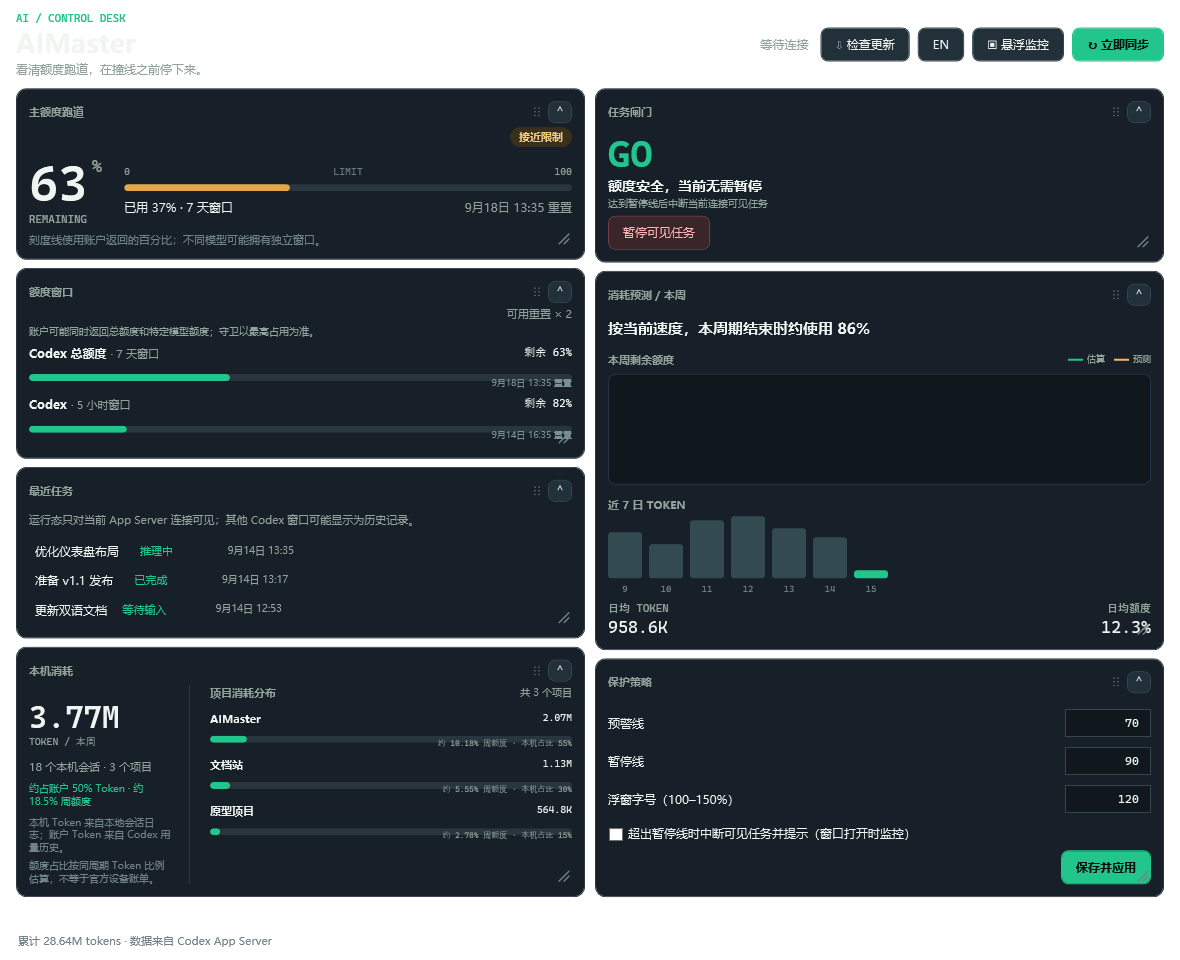
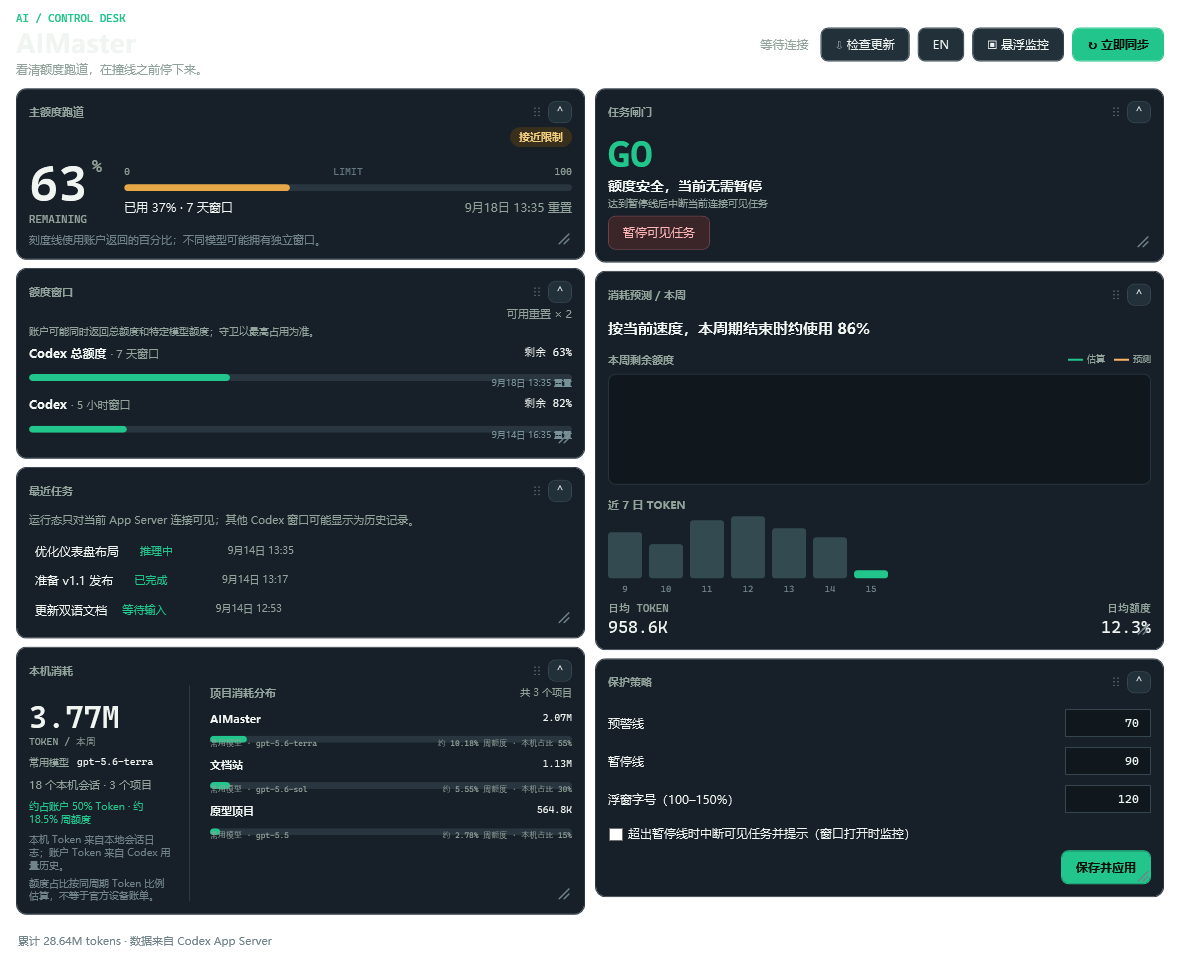
共享统计

Changed region(s): [[0.0, 0.7812, 0.5186, 0.9688], [0.1831, 0.8125, 0.2136, 0.875], [0.1831, 0.75, 0.2136, 0.7812]]

diff --git a/AiManagerWindow.xaml b/AiManagerWindow.xaml
@@ -310,8 +310,14 @@
                             <TextBlock x:Name="LocalUsageTokensText" Text="--" Foreground="{StaticResource Ink}"
                                        FontFamily="Cascadia Mono" FontSize="31" FontWeight="SemiBold" Margin="0,14,0,0"/>
                             <TextBlock Text="TOKEN / 本周" Foreground="{StaticResource Muted}" FontFamily="Cascadia Mono" FontSize="10"/>
+                            <StackPanel Orientation="Horizontal" Margin="0,9,18,0">
+                                <TextBlock Text="常用模型" Foreground="{StaticResource Muted}" FontSize="10"/>
+                                <TextBlock x:Name="LocalUsageModelText" Text="--" Foreground="{StaticResource Ink}"
+                                           FontFamily="Cascadia Mono" FontSize="10" Margin="8,0,0,0"
+                                           TextTrimming="CharacterEllipsis"/>
+                            </StackPanel>
                             <TextBlock x:Name="LocalUsageDetailText" Text="等待本地记录" Foreground="{StaticResource Muted}"
-                                       FontSize="11" TextWrapping="Wrap" Margin="0,13,18,0"/>
+                                       FontSize="11" TextWrapping="Wrap" Margin="0,9,18,0"/>
                             <TextBlock x:Name="LocalUsageEstimateText" Text="等待账户与本机记录" Foreground="{StaticResource Signal}"
                                        FontSize="10" TextWrapping="Wrap" Margin="0,8,18,0"/>
                             <TextBlock Text="本机 Token 来自本地会话日志；账户 Token 来自 Codex 用量历史。" Foreground="#71838A"
@@ -340,10 +346,14 @@
                                                 <TextBlock Grid.Column="1" Text="{Binding TokensText}" Foreground="{StaticResource Ink}"
                                                            FontFamily="Cascadia Mono" FontSize="10" Margin="12,0,0,0"/>
                                                 <Grid Grid.Row="1" Grid.ColumnSpan="2" Margin="0,5,0,0">
+                                                    <Grid.ColumnDefinitions><ColumnDefinition Width="*"/><ColumnDefinition Width="Auto"/></Grid.ColumnDefinitions>
                                                     <ProgressBar Style="{StaticResource Meter}" Maximum="100"
-                                                                 Value="{Binding WeeklyQuotaBarValue, Mode=OneWay}"/>
-                                                    <TextBlock Text="{Binding QuotaShareText}" Foreground="{StaticResource Muted}" FontFamily="Cascadia Mono"
-                                                               FontSize="8" HorizontalAlignment="Right" Margin="0,8,0,0"/>
+                                                                 Value="{Binding WeeklyQuotaBarValue, Mode=OneWay}" Grid.ColumnSpan="2"/>
+                                                    <TextBlock Text="{Binding MostUsedModelText}" Foreground="{StaticResource Muted}"
+                                                               FontFamily="Cascadia Mono" FontSize="8" Margin="0,8,12,0"
+                                                               TextTrimming="CharacterEllipsis"/>
+                                                    <TextBlock Grid.Column="1" Text="{Binding QuotaShareText}" Foreground="{StaticResource Muted}"
+                                                               FontFamily="Cascadia Mono" FontSize="8" HorizontalAlignment="Right" Margin="0,8,0,0"/>
                                                 </Grid>
                                             </Grid>
                                         </DataTemplate>

diff --git a/Services/AiManagerService.cs b/Services/AiManagerService.cs
@@ -40,10 +40,16 @@ internal sealed class AiManagerService : IAsyncDisposable
         public readonly List<LocalUsageRecord> Records = new();
         public long Offset;
         public string? ProjectPath;
+        public string? ModelName;
         public bool HasTokenUsageRecords;
     }
 
-    private sealed record LocalUsageRecord(DateOnly Date, string ProjectPath, long Tokens, bool IsLegacy = false);
+    private sealed record LocalUsageRecord(
+        DateOnly Date,
+        string ProjectPath,
+        string? ModelName,
+        long Tokens,
+        bool IsLegacy = false);
 
     public AiManagerService()
     {
@@ -453,7 +459,8 @@ internal sealed class AiManagerService : IAsyncDisposable
                 ProjectPath = group.Key,
                 Tokens = group.Sum(item => item.Record.Tokens),
                 SharePercent = total > 0 ? group.Sum(item => item.Record.Tokens) * 100d / total : 0,
-                SessionCount = group.Select(item => item.SessionPath).Distinct(StringComparer.OrdinalIgnoreCase).Count()
+                SessionCount = group.Select(item => item.SessionPath).Distinct(StringComparer.OrdinalIgnoreCase).Count(),
+                MostUsedModel = SelectMostUsedModel(group.Select(item => item.Record))
             })
             .OrderByDescending(item => item.Tokens)
             .ThenBy(item => item.ProjectName, StringComparer.CurrentCultureIgnoreCase)
@@ -465,6 +472,7 @@ internal sealed class AiManagerService : IAsyncDisposable
             TotalTokens = total,
             SessionCount = sessionRecords.Select(item => item.SessionPath)
                 .Distinct(StringComparer.OrdinalIgnoreCase).Count(),
+            MostUsedModel = SelectMostUsedModel(sessionRecords.Select(item => item.Record)),
             Projects = projects
         };
     }
@@ -480,6 +488,7 @@ internal sealed class AiManagerService : IAsyncDisposable
             {
                 cursor.Offset = 0;
                 cursor.ProjectPath = null;
+                cursor.ModelName = null;
                 cursor.HasTokenUsageRecords = false;
                 cursor.Records.Clear();
                 cursor.PendingLine.SetLength(0);
@@ -519,6 +528,7 @@ internal sealed class AiManagerService : IAsyncDisposable
             if (type is "session_meta" or "turn_context")
             {
                 cursor.ProjectPath = NormalizeProjectPath(ReadString(payload, "cwd")) ?? cursor.ProjectPath;
+                cursor.ModelName = NormalizeModelName(ReadString(payload, "model")) ?? cursor.ModelName;
                 return;
             }
             var isLegacy = false;
@@ -550,7 +560,8 @@ internal sealed class AiManagerService : IAsyncDisposable
                 ? DateOnly.FromDateTime(timestamp.LocalDateTime)
                 : fallbackDate;
             cursor.Records.Add(new LocalUsageRecord(date,
-                cursor.ProjectPath ?? LocalizationService.L("未归属项目", "Unassigned"), tokens, isLegacy));
+                cursor.ProjectPath ?? LocalizationService.L("未归属项目", "Unassigned"),
+                cursor.ModelName, tokens, isLegacy));
         }
         catch (JsonException)
         {
@@ -570,6 +581,18 @@ internal sealed class AiManagerService : IAsyncDisposable
         if (path.StartsWith(@"\\?\", StringComparison.Ordinal)) path = path[4..];
         return Path.TrimEndingDirectorySeparator(path.Trim());
     }
+
+    private static string? NormalizeModelName(string? model) =>
+        string.IsNullOrWhiteSpace(model) ? null : model.Trim();
+
+    private static string? SelectMostUsedModel(IEnumerable<LocalUsageRecord> records) => records
+        .Where(item => !string.IsNullOrWhiteSpace(item.ModelName))
+        .GroupBy(item => item.ModelName!, StringComparer.OrdinalIgnoreCase)
+        .Select(group => new { Name = group.Key, Tokens = group.Sum(item => item.Tokens) })
+        .OrderByDescending(item => item.Tokens)
+        .ThenBy(item => item.Name, StringComparer.OrdinalIgnoreCase)
+        .Select(item => item.Name)
+        .FirstOrDefault();
 
     private static string ProjectDisplayName(string path)
     {

diff --git a/tests/AIMaster.Smoke/Program.cs b/tests/AIMaster.Smoke/Program.cs
@@ -303,7 +303,8 @@ internal static partial class Program
         var row = (FrameworkElement)items.ItemTemplate.LoadContent();
         row.DataContext = new AiProjectUsage
         {
-            ProjectName = "Smoke", Tokens = 1_000, SharePercent = 25, WeeklyQuotaPercent = 10
+            ProjectName = "Smoke", Tokens = 1_000, SharePercent = 25, WeeklyQuotaPercent = 10,
+            MostUsedModel = "gpt-5.6-terra"
         };
         row.Measure(new Size(420, 80));
         row.Arrange(new Rect(0, 0, 420, 80));
@@ -377,18 +378,20 @@ internal static partial class Program
         File.WriteAllLines(alpha,
         [
             $"{{\"timestamp\":\"{timestamp}\",\"type\":\"session_meta\",\"payload\":{{\"cwd\":\"C:\\\\Work\\\\Alpha\"}}}}",
+            $"{{\"timestamp\":\"{timestamp}\",\"type\":\"turn_context\",\"payload\":{{\"model\":\"gpt-5.5\"}}}}",
             $"{{\"timestamp\":\"{timestamp}\",\"type\":\"token_usage_record\",\"payload\":{{\"usage\":{{\"total_tokens\":1000}}}}}}",
+            $"{{\"timestamp\":\"{timestamp}\",\"type\":\"turn_context\",\"payload\":{{\"model\":\"gpt-5.6-sol\"}}}}",
             $"{{\"timestamp\":\"{timestamp}\",\"type\":\"token_usage_record\",\"payload\":{{\"usage\":{{\"total_tokens\":2000}}}}}}"
         ]);
         File.WriteAllLines(beta,
         [
-            $"{{\"timestamp\":\"{timestamp}\",\"type\":\"turn_context\",\"payload\":{{\"cwd\":\"C:\\\\Work\\\\Beta\"}}}}",
+            $"{{\"timestamp\":\"{timestamp}\",\"type\":\"turn_context\",\"payload\":{{\"cwd\":\"C:\\\\Work\\\\Beta\",\"model\":\"gpt-5.6-terra\"}}}}",
             $"{{\"timestamp\":\"{timestamp}\",\"type\":\"token_usage_record\",\"payload\":{{\"usage\":{{\"total_tokens\":4000}}}}}}",
             $"{{\"timestamp\":\"{timestamp}\",\"type\":\"event_msg\",\"payload\":{{\"type\":\"token_count\",\"info\":{{\"total_token_usage\":{{\"total_tokens\":9000}},\"last_token_usage\":{{\"total_tokens\":500}}}}}}}}"
         ]);
         File.WriteAllLines(gamma,
         [
-            $"{{\"timestamp\":\"{timestamp}\",\"type\":\"turn_context\",\"payload\":{{\"cwd\":\"C:\\\\Work\\\\Gamma\"}}}}",
+            $"{{\"timestamp\":\"{timestamp}\",\"type\":\"turn_context\",\"payload\":{{\"cwd\":\"C:\\\\Work\\\\Gamma\",\"model\":\"gpt-5.6-terra\"}}}}",
             $"{{\"timestamp\":\"{timestamp}\",\"type\":\"event_msg\",\"payload\":{{\"type\":\"token_count\",\"info\":{{\"total_token_usage\":{{\"total_tokens\":500}},\"last_token_usage\":{{\"total_tokens\":500}}}}}}}}"
         ]);
         try
@@ -397,9 +400,12 @@ internal static partial class Program
             var today = DateOnly.FromDateTime(DateTime.Now);
             var first = service.ReadLocalUsageSummary(root, today);
             Check(first.TotalTokens == 7500 && first.SessionCount == 3 && first.Projects.Count == 3 &&
+                  first.MostUsedModel == "gpt-5.6-terra" &&
                   first.Projects[0].ProjectName == "Beta" && first.Projects[0].Tokens == 4000 &&
+                  first.Projects[0].MostUsedModel == "gpt-5.6-terra" &&
+                  first.Projects.Single(item => item.ProjectName == "Alpha").MostUsedModel == "gpt-5.6-sol" &&
                   first.Projects.Single(item => item.ProjectName == "Gamma").Tokens == 500,
-                "local usage prefers response records, falls back to legacy increments, and groups by project directory");
+                "local usage groups by project and reports token-weighted top models");
 
             File.AppendAllLines(beta,
             [

diff --git a/tests/AIMaster.Smoke/DocumentationScreenshotCapture.cs b/tests/AIMaster.Smoke/DocumentationScreenshotCapture.cs
@@ -112,11 +112,12 @@ internal static class DocumentationScreenshotCapture
                 PeriodEnd = today,
                 TotalTokens = 3_765_000,
                 SessionCount = 18,
+                MostUsedModel = "gpt-5.6-terra",
                 Projects =
                 [
-                    new AiProjectUsage { ProjectName = "AIMaster", ProjectPath = @"C:\Demo\AIMaster", Tokens = 2_070_750, SharePercent = 55, SessionCount = 9 },
-                    new AiProjectUsage { ProjectName = english ? "Documentation" : "文档站", ProjectPath = @"C:\Demo\Docs", Tokens = 1_129_500, SharePercent = 30, SessionCount = 5 },
-                    new AiProjectUsage { ProjectName = english ? "Prototype" : "原型项目", ProjectPath = @"C:\Demo\Prototype", Tokens = 564_750, SharePercent = 15, SessionCount = 4 }
+                    new AiProjectUsage { ProjectName = "AIMaster", ProjectPath = @"C:\Demo\AIMaster", Tokens = 2_070_750, SharePercent = 55, SessionCount = 9, MostUsedModel = "gpt-5.6-terra" },
+                    new AiProjectUsage { ProjectName = english ? "Documentation" : "文档站", ProjectPath = @"C:\Demo\Docs", Tokens = 1_129_500, SharePercent = 30, SessionCount = 5, MostUsedModel = "gpt-5.6-sol" },
+                    new AiProjectUsage { ProjectName = english ? "Prototype" : "原型项目", ProjectPath = @"C:\Demo\Prototype", Tokens = 564_750, SharePercent = 15, SessionCount = 4, MostUsedModel = "gpt-5.5" }
                 ]
             }
         };

diff --git a/Models/AiManagerModels.cs b/Models/AiManagerModels.cs
@@ -62,6 +62,7 @@ public sealed class AiManagerSettings
 
     [JsonPropertyName("language")]
     public string? Language { get; set; }
+
 }
 
 public sealed class AiDashboardCardSize
@@ -107,8 +108,12 @@ public sealed class AiProjectUsage
     public double SharePercent { get; init; }
     public double? WeeklyQuotaPercent { get; init; }
     public int SessionCount { get; init; }
+    public string? MostUsedModel { get; init; }
     public string TokensText => FormatTokens(Tokens);
     public string ShareText => $"{SharePercent:0.#}%";
+    public string MostUsedModelText => LocalizationService.IsEnglish
+        ? $"Top model · {MostUsedModel ?? "Unknown"}"
+        : $"常用模型 · {MostUsedModel ?? "未知"}";
     public double WeeklyQuotaBarValue => WeeklyQuotaPercent ?? 0;
     public string QuotaShareText => WeeklyQuotaPercent is { } quota
         ? LocalizationService.IsEnglish
@@ -132,6 +137,7 @@ public sealed class AiLocalUsageSummary
     public DateOnly PeriodEnd { get; init; }
     public long TotalTokens { get; init; }
     public int SessionCount { get; init; }
+    public string? MostUsedModel { get; init; }
     public List<AiProjectUsage> Projects { get; init; } = new();
 }
 

diff --git a/Services/LocalizationService.cs b/Services/LocalizationService.cs
@@ -83,6 +83,7 @@ public static class LocalizationService
         ["保护策略已保存并应用"] = "Guard policy saved and applied", ["设置已保存并应用"] = "Settings saved and applied",
         ["折叠卡片"] = "Collapse card", ["展开卡片"] = "Expand card", ["拖动调整布局"] = "Drag to rearrange",
         ["本机消耗"] = "LOCAL USAGE", ["TOKEN / 本周"] = "TOKENS / THIS WEEK",
+        ["常用模型"] = "TOP MODEL",
         ["等待本地记录"] = "Waiting for local records", ["等待账户与本机记录"] = "Waiting for account and local records",
         ["本机 Token 来自本地会话日志；账户 Token 来自 Codex 用量历史。"] = "Local tokens come from on-device session logs; account tokens come from Codex usage history.",
         ["额度占比按同周期 Token 比例估算，不等于官方设备账单。"] = "Quota attribution is estimated from same-period token ratios; it is not an official per-device bill.",

diff --git a/AiManagerWindow.xaml.cs b/AiManagerWindow.xaml.cs
@@ -901,6 +901,7 @@ public partial class AiManagerWindow : Window
     {
         var estimate = EstimateLocalQuotaUsage(usage, accountDailyUsage, weeklyUsedPercent);
         LocalUsageTokensText.Text = FormatTokens(usage.TotalTokens);
+        LocalUsageModelText.Text = usage.MostUsedModel ?? LocalizationService.L("未知", "Unknown");
         LocalUsageDetailText.Text = LocalizationService.IsEnglish
             ? $"{usage.SessionCount} local sessions · {usage.Projects.Count} projects"
             : $"{usage.SessionCount} 个本机会话 · {usage.Projects.Count} 个项目";
@@ -954,6 +955,7 @@ public partial class AiManagerWindow : Window
             Tokens = item.Tokens,
             SharePercent = item.SharePercent,
             SessionCount = item.SessionCount,
+            MostUsedModel = item.MostUsedModel,
             WeeklyQuotaPercent = normalizedLocalQuota * item.SharePercent / 100d
         }).ToList();
     }

diff --git a/README.en.md b/README.en.md
@@ -16,7 +16,7 @@ AIMaster is a standalone Windows monitor for Codex quota and task activity. It b
 
 - View total Codex quota, 7-day and 5-hour windows, usage percentages, and reset times.
 - Forecast the remaining weekly quota from Monday through Sunday using recent consumption.
-- Track this device's weekly Codex tokens and estimate device/project quota attribution from same-period account token history, without assigning multi-device usage entirely to the current machine.
+- Track this device's weekly Codex tokens and token-weighted top model, estimate device/project quota attribution from same-period account token history, and show each project's top model without assigning multi-device usage entirely to the current machine.
 - Configure warning and pause thresholds; optionally interrupt tasks visible to the current App Server connection.
 - Collapse cards, drag their headers between two columns, and resize them from the lower-right corner. Layout and sizes persist automatically.
 - View recent tasks with running, waiting, interrupted, and completed states.

diff --git a/docs/USER-GUIDE.en.md b/docs/USER-GUIDE.en.md
@@ -13,7 +13,7 @@ The dashboard contains seven card types:
 3. **Quota windows** lists the weekly and short windows returned by the account.
 4. **Usage forecast** charts estimated and projected weekly quota remaining, plus the last seven days of usage.
 5. **Recent tasks** lists running, waiting, interrupted, paused, and completed tasks.
-6. **Local usage** totals this device's weekly tokens and estimates device/project quota attribution from the ratio of local tokens to same-period account tokens; when account history is incomplete, only local tokens are shown.
+6. **Local usage** totals this device's weekly tokens, shows token-weighted top models for the device and each project, and estimates device/project quota attribution from the ratio of local tokens to same-period account tokens; when account history is incomplete, only local tokens are shown.
 7. **Guard policy** configures warning and pause thresholds, automatic pausing, and floating-window text size.
 
 Select **Sync now** to reconnect to Codex and refresh all data.

diff --git a/docs/USER-GUIDE.md b/docs/USER-GUIDE.md
@@ -13,7 +13,7 @@
 3. **额度窗口**：列出账户返回的周窗口、短窗口及各自重置时间。
 4. **消耗预测**：用折线图展示本周剩余额度估算和未来预测，并汇总近 7 日用量。
 5. **最近任务**：显示进行中、等待输入、已中断/暂停和已完成的任务。
-6. **本机消耗**：汇总本周本机 Token，并用“本机 Token ÷ 账号同周期 Token”估算当前设备及各项目的周额度占比；账号历史不完整时只显示本机 Token。
+6. **本机消耗**：汇总本周本机 Token，并按 Token 用量显示本机及各项目的常用模型；同时用“本机 Token ÷ 账号同周期 Token”估算当前设备及各项目的周额度占比，账号历史不完整时只显示本机 Token。
 7. **保护策略**：设置预警线、暂停线、自动暂停和浮窗字号。
 
 点击“立即同步”会重新连接 Codex 并刷新全部数据。语言按钮可在中文和英文之间即时切换。
